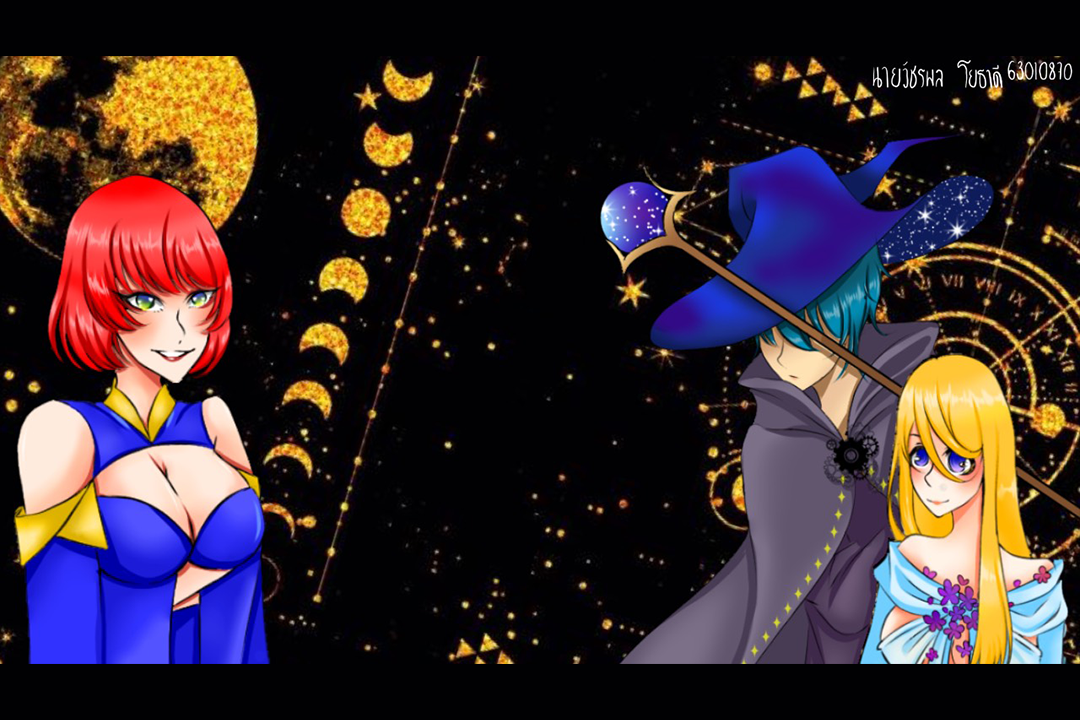
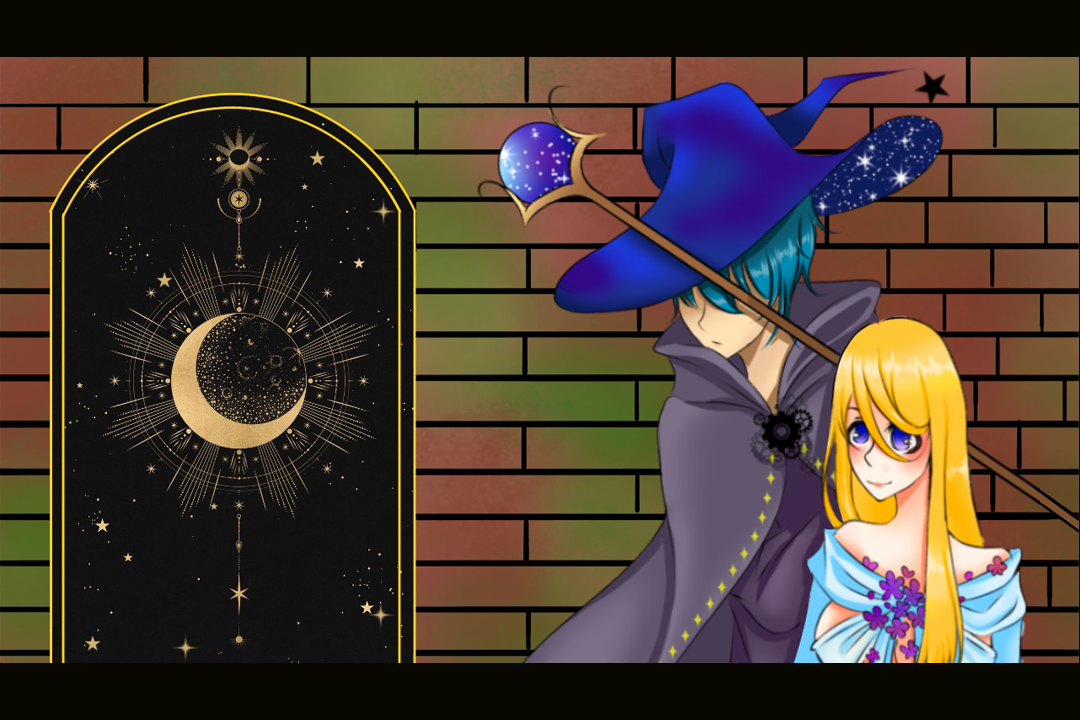
randdaimon2

diff --git a/GAME_SFML/main.cpp b/GAME_SFML/main.cpp
@@ -98,11 +98,11 @@ int main()
 		positionrand_x[0] = 943.0f;
 		positionrand_y[0] = 65.0f;
 
-		positionrand_x[1] = 840.0f;
-		positionrand_y[1] = 1150.0f;
+		positionrand_x[1] = 1270.0f;
+		positionrand_y[1] = 1050.0f;
 
-		positionrand_x[2] = 943.0f;
-		positionrand_y[2] = 480.0f;
+		positionrand_x[2] = 1000.0f;
+		positionrand_y[2] = 415.0f;
 
 	}
 	else if (cheeck == 1)
@@ -110,44 +110,44 @@ int main()
 		positionrand_x[0] = 943.0f;
 		positionrand_y[0] = 65.0f;
 
-		positionrand_x[2] = 840.0f;
-		positionrand_y[2] = 1150.0f;
+		positionrand_x[2] = 1270.0f;
+		positionrand_y[2] = 1050.0f;
 
-		positionrand_x[1] = 943.0f;
-		positionrand_y[1] = 480.0f;
+		positionrand_x[1] = 1273.0f;
+		positionrand_y[1] = 415.0f;
 	}
 	else if(cheeck == 2)
 	{
 		positionrand_x[2] = 943.0f;
 		positionrand_y[2] = 65.0f;
 
-		positionrand_x[1] = 840.0f;
-		positionrand_y[1] = 1150.0f;
+		positionrand_x[1] = 1270.0f;
+		positionrand_y[1] = 1050.0f;
 
-		positionrand_x[0] = 943.0f;
-		positionrand_y[0] = 480.0f;
+		positionrand_x[0] = 1273.0f;
+		positionrand_y[0] = 415.0f;
 	}
 	else if (cheeck == 3)
 	{
 		positionrand_x[1] = 943.0f;
 		positionrand_y[1] = 65.0f;
 
-		positionrand_x[0] = 840.0f;
-		positionrand_y[0] = 1150.0f;
+		positionrand_x[0] = 1270.0f;
+		positionrand_y[0] = 1050.0f;
 
-		positionrand_x[2] = 943.0f;
-		positionrand_y[2] = 480.0f;
+		positionrand_x[2] = 1273.0f;
+		positionrand_y[2] = 415.0f;
 	}
 	else if (cheeck == 4)
 	{
 		positionrand_x[1] = 943.0f;
 		positionrand_y[1] = 65.0f;
 
-		positionrand_x[2] = 840.0f;
-		positionrand_y[2] = 1150.0f;
+		positionrand_x[2] = 850.0f;
+		positionrand_y[2] = 1250.0f;
 
-		positionrand_x[0] = 943.0f;
-		positionrand_y[0] = 480.0f;
+		positionrand_x[0] = 1000.0f;
+		positionrand_y[0] = 415.0f;
 	}
 	else if (cheeck == 5)
 	{
@@ -161,7 +161,79 @@ int main()
 		positionrand_y[2] = 480.0f;
 	}
 	//???????????????????????????????????????????????????????????????????????????????????????????????????????????????????????????????????????????????????????
+	int cheeck2 = rand() % 6;
+	float positionrand_x2[3], positionrand_y2[3];
 
+	if (cheeck2 == 0)
+	{
+		positionrand_x2[0] = 430.0f;
+		positionrand_y2[0] = 2640.0f;
+
+		positionrand_x2[1] = 60.5f;
+		positionrand_y2[1] = 2350.0f;
+
+		positionrand_x2[2] = 1585.0f;
+		positionrand_y2[2] = 2585.0f;
+
+	}
+	else if (cheeck2 == 1)
+	{
+		positionrand_x2[0] = 430.0f;
+		positionrand_y2[0] = 2640.0f;
+
+		positionrand_x2[2] = 60.5f;
+		positionrand_y2[2] = 2200.0f;
+
+		positionrand_x2[1] = 1585.0f;
+		positionrand_y2[1] = 2585.0f;
+	}
+	else if (cheeck2 == 2)
+	{
+		positionrand_x2[2] = 430.0f;
+		positionrand_y2[2] = 2640.0f;
+
+		positionrand_x2[1] = 60.5f;
+		positionrand_y2[1] = 2200.0f;
+
+		positionrand_x2[0] = 1585.0f;
+		positionrand_y2[0] = 2585.0f;
+	}
+	else if (cheeck2 == 3)
+	{
+		positionrand_x2[1] = 430.0f;
+		positionrand_y2[1] = 2640.0f;
+
+		positionrand_x2[0] = 60.5f;
+		positionrand_y2[0] = 2200.0f;
+
+		positionrand_x2[2] = 1585.0f;
+		positionrand_y2[2] = 2585.0f;
+
+	}
+	else if (cheeck2 == 4)
+	{
+		positionrand_x2[1] = 430.0f;
+		positionrand_y2[1] = 2640.0f;
+
+
+		positionrand_x2[2] = 60.5f;
+		positionrand_y2[2] = 2200.0f;
+
+		positionrand_x2[0] = 1585.0f;
+		positionrand_y2[0] = 2585.0f;
+	}
+	else if (cheeck2 == 5)
+	{
+		positionrand_x2[2] = 430.0f;
+		positionrand_y2[2] = 2640.0f;
+
+		positionrand_x2[0] = 60.5f;
+		positionrand_y2[0] = 2200.0f;
+
+
+		positionrand_x2[2] = 1585.0f;
+		positionrand_y2[2] = 2585.0f;
+	}
 	
 	//////////////////////////////////////////////////////
 	//Vector ไฟ ===============================================================================================================================================
@@ -188,20 +260,21 @@ int main()
 
 	//Vector เพชรเทา ===============================================================================================================================================
 	std::vector<dimon>DimonVector;
-	DimonVector.push_back(dimon(&daimonn, sf::Vector2u(4, 1), 1.0f, sf::Vector2f(100.f, 100.0f), sf::Vector2f(positionrand_x[0] , positionrand_y[0])));
-	DimonVector.push_back(dimon(&daimonn, sf::Vector2u(4, 1), 1.0f, sf::Vector2f(100.f, 100.0f), sf::Vector2f(943.0f, 2000.f+480.0f)));
-	DimonVector.push_back(dimon(&daimonn, sf::Vector2u(4, 1), 1.0f, sf::Vector2f(100.f, 100.0f), sf::Vector2f(943.0f, 4000.f+50.0f)));
+	DimonVector.push_back(dimon(&daimonn, sf::Vector2u(4, 1), 1.0f, sf::Vector2f(100.f, 100.0f), sf::Vector2f(positionrand_x[0] , positionrand_y[0]))); 
+	DimonVector.push_back(dimon(&daimonn, sf::Vector2u(4, 1), 1.0f, sf::Vector2f(100.f, 100.0f), sf::Vector2f(positionrand_x2[0], positionrand_y2[0]))); 
+	//monVector.push_back(dimon(&daimonn, sf::Vector2u(4, 1), 1.0f, sf::Vector2f(100.f, 100.0f), sf::Vector2f(positionrand_x2[2], positionrand_y[2])));
 	//===========================================================================================================================================================
 
 	//Vector เพชรฟ้า ===============================================================================================================================================
 	std::vector<dimonfah>DimonfahVector;
 	DimonfahVector.push_back(dimonfah(&daimonfah, sf::Vector2u(4, 1), 1.0f, sf::Vector2f(100.f, 100.0f), sf::Vector2f(positionrand_x[1], positionrand_y[1])));
+	DimonfahVector.push_back(dimonfah(&daimonfah, sf::Vector2u(4, 1), 1.0f, sf::Vector2f(100.f, 100.0f), sf::Vector2f(positionrand_x2[1], positionrand_y2[1])));
 	//=============================================================================================================================================================
 
 	//Vector เพชรเขียว ===============================================================================================================================================
 	std::vector<dimongreen>DimongreenVector;
-	DimongreenVector.push_back(dimongreen(&daimongreen, sf::Vector2u(4, 1), 1.0f, sf::Vector2f(100.f, 100.0f), sf::Vector2f(positionrand_x[2], positionrand_y[2])));
-
+	DimongreenVector.push_back(dimongreen(&daimongreen, sf::Vector2u(4, 1), 1.0f, sf::Vector2f(100.f, 100.0f), sf::Vector2f(positionrand_x[2], positionrand_y[2]))); 
+	DimongreenVector.push_back(dimongreen(&daimongreen, sf::Vector2u(4, 1), 1.0f, sf::Vector2f(100.f, 100.0f), sf::Vector2f(positionrand_x2[2], positionrand_y2[2])));
 	//=============================================================================================================================================================
 
 	// Vector กล่อง ============================================================================================================================================== =
@@ -395,6 +468,7 @@ int main()
 	platfroms.push_back(Platform(nullptr, sf::Vector2f(60.0f, 45.0f), sf::Vector2f(625.0f, 3145.0f)));
 	platfroms.push_back(Platform(nullptr, sf::Vector2f(45.0f, 30.0f), sf::Vector2f(767.0f, 2970.0f)));
 	platfroms.push_back(Platform(nullptr, sf::Vector2f(15.0f, 10.0f), sf::Vector2f(430.0f, 2700.0f)));
+	platfroms.push_back(Platform(nullptr, sf::Vector2f(15.0f, 10.0f), sf::Vector2f(52.5f, 2350.0f)));
 	
 	//bg2
 	//-------------------------------------------------------------------------------------------------------------------------------------------------------//
@@ -452,6 +526,11 @@ int main()
 	platfroms.push_back(Platform(nullptr, sf::Vector2f(35.0f, 1280.0f), sf::Vector2f(20.0f, 4630.0f)));
 	platfroms.push_back(Platform(nullptr, sf::Vector2f(150.0f, 80.0f), sf::Vector2f(1730.0f, 41080.0f)));
 	platfroms.push_back(Platform(nullptr, sf::Vector2f(150.0f, 35.0f), sf::Vector2f(1555.0f, 4730.0f)));
+
+	platfroms.push_back(Platform(nullptr, sf::Vector2f(150.0f, 35.0f), sf::Vector2f(1748.0f, 5112.0f)));
+	platfroms.push_back(Platform(nullptr, sf::Vector2f(150.0f, 35.0f), sf::Vector2f(1755.0f, 5150.0f)));
+	platfroms.push_back(Platform(nullptr, sf::Vector2f(150.0f, 35.0f), sf::Vector2f(1780.0f, 5180.0f)));
+
 	//-------------------------------------------------------------------------------------------------------------------------------------------------------//
 	
 
@@ -487,17 +566,17 @@ int main()
 
 	std::ostringstream showtime;
 	sf::Font font;
-	font.loadFromFile("charecter/Pifont.ttf");
+	font.loadFromFile("charecter/ka.ttf");
 	sf::Text lbltime;
 	lbltime.setString(showtime.str());
-	lbltime.setCharacterSize(45);
+	lbltime.setCharacterSize(40);
 	lbltime.setFont(font);
 	lbltime.setFillColor(sf::Color::Yellow);
 	lbltime.setString(showtime.str());
 
 	showtime.str(" ");
 	showtime << "Time : ";
-	lbltime.setPosition(view.getCenter().x + 250, view.getCenter().y - 360);
+	lbltime.setPosition(view.getCenter().x + 240, view.getCenter().y - 360);
 
 	//==================================================================//
 
@@ -517,7 +596,7 @@ int main()
 		}
 
 	
-		//std::cout << "x = " << player.GetPosition().x << " y = " << player.GetPosition().y << std::endl;
+		std::cout << "x = " << player.GetPosition().x << " y = " << player.GetPosition().y << std::endl;
 		//std::cout << Bul << std::endl;
 		bullet1.cooldown(deltaTime, Bul);
 		bullet2.cooldown(deltaTime, Bul2);
@@ -984,8 +1063,8 @@ int main()
 		lbltime.setString(showtime.str());
 
 		showtime.str(" ");
-		showtime << "Time : ";
-		lbltime.setPosition(view.getCenter().x + 250, view.getCenter().y - 360);
+		showtime << " Time  :  ";
+		lbltime.setPosition(view.getCenter().x + 200, view.getCenter().y - 360);
 
 		//==================================================================//
 		
@@ -1005,7 +1084,7 @@ int main()
 			
 			//window.draw(back01);
 			window.draw(back02);
-			window.draw(back03);
+			//window.draw(back03);
 			window.setView(view);
 
 			for (Platform& platfrom : platfroms)
@@ -1013,8 +1092,8 @@ int main()
 
 
 			window.draw(back01);
-			//window.draw(back02);
-			//window.draw(back03);
+			/*window.draw(back02);*/
+			window.draw(back03);
 
 			//ด่านไฟ
 			for (int i = 0; i < FireVector.size(); i++)

diff --git a/GAME_SFML/dimon.cpp b/GAME_SFML/dimon.cpp
@@ -16,8 +16,7 @@ dimon::dimon(sf::Texture* texture, sf::Vector2u imageCount, float switchTime, sf
 	hitbox.setSize(sf::Vector2f(50.0f, 20.0f));
 	hitbox.setOrigin(hitbox.getSize() / 2.f);
 	hitbox.setFillColor(sf::Color::Transparent);
-	hitbox.setOutlineThickness(1.f);
-	hitbox.setOutlineColor(sf::Color::Yellow);
+	hitbox.setOutlineThickness(0.f);
 	hitbox.setPosition(sf::Vector2f(body.getPosition().x, body.getPosition().y + 35));
 
 	row = 0;

diff --git a/GAME_SFML/dimonfah.cpp b/GAME_SFML/dimonfah.cpp
@@ -15,8 +15,8 @@ dimonfah::dimonfah(sf::Texture* texture, sf::Vector2u imageCount, float switchTi
 	hitbox.setSize(sf::Vector2f(50.0f, 20.0f));
 	hitbox.setOrigin(hitbox.getSize() / 2.f);
 	hitbox.setFillColor(sf::Color::Transparent);
-	hitbox.setOutlineThickness(1.f);
-	hitbox.setOutlineColor(sf::Color::Yellow);
+	hitbox.setOutlineThickness(0.f);
+	
 	hitbox.setPosition(sf::Vector2f(body.getPosition().x, body.getPosition().y + 35));
 }
 

diff --git a/GAME_SFML/dimongreen.cpp b/GAME_SFML/dimongreen.cpp
@@ -16,8 +16,8 @@ dimongreen::dimongreen(sf::Texture* texture, sf::Vector2u imageCount, float swit
 	hitbox.setSize(sf::Vector2f(50.0f, 20.0f));
 	hitbox.setOrigin(hitbox.getSize() / 2.f);
 	hitbox.setFillColor(sf::Color::Transparent);
-	hitbox.setOutlineThickness(1.f);
-	hitbox.setOutlineColor(sf::Color::Yellow);
+	hitbox.setOutlineThickness(0.f);
+	
 	hitbox.setPosition(sf::Vector2f(body.getPosition().x, body.getPosition().y + 35));
 }
 
